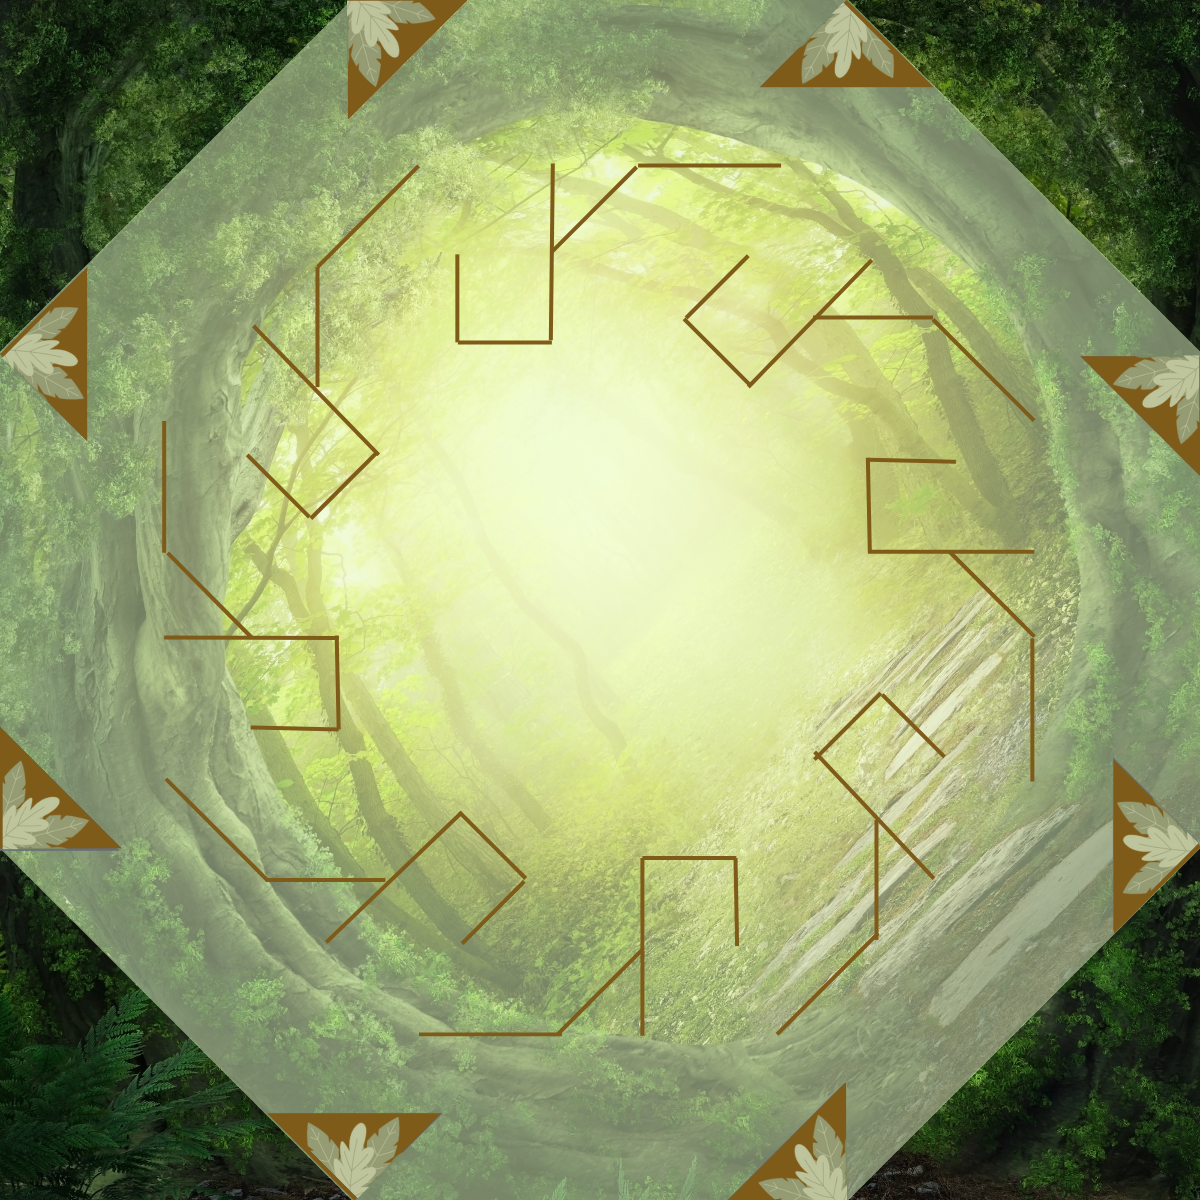
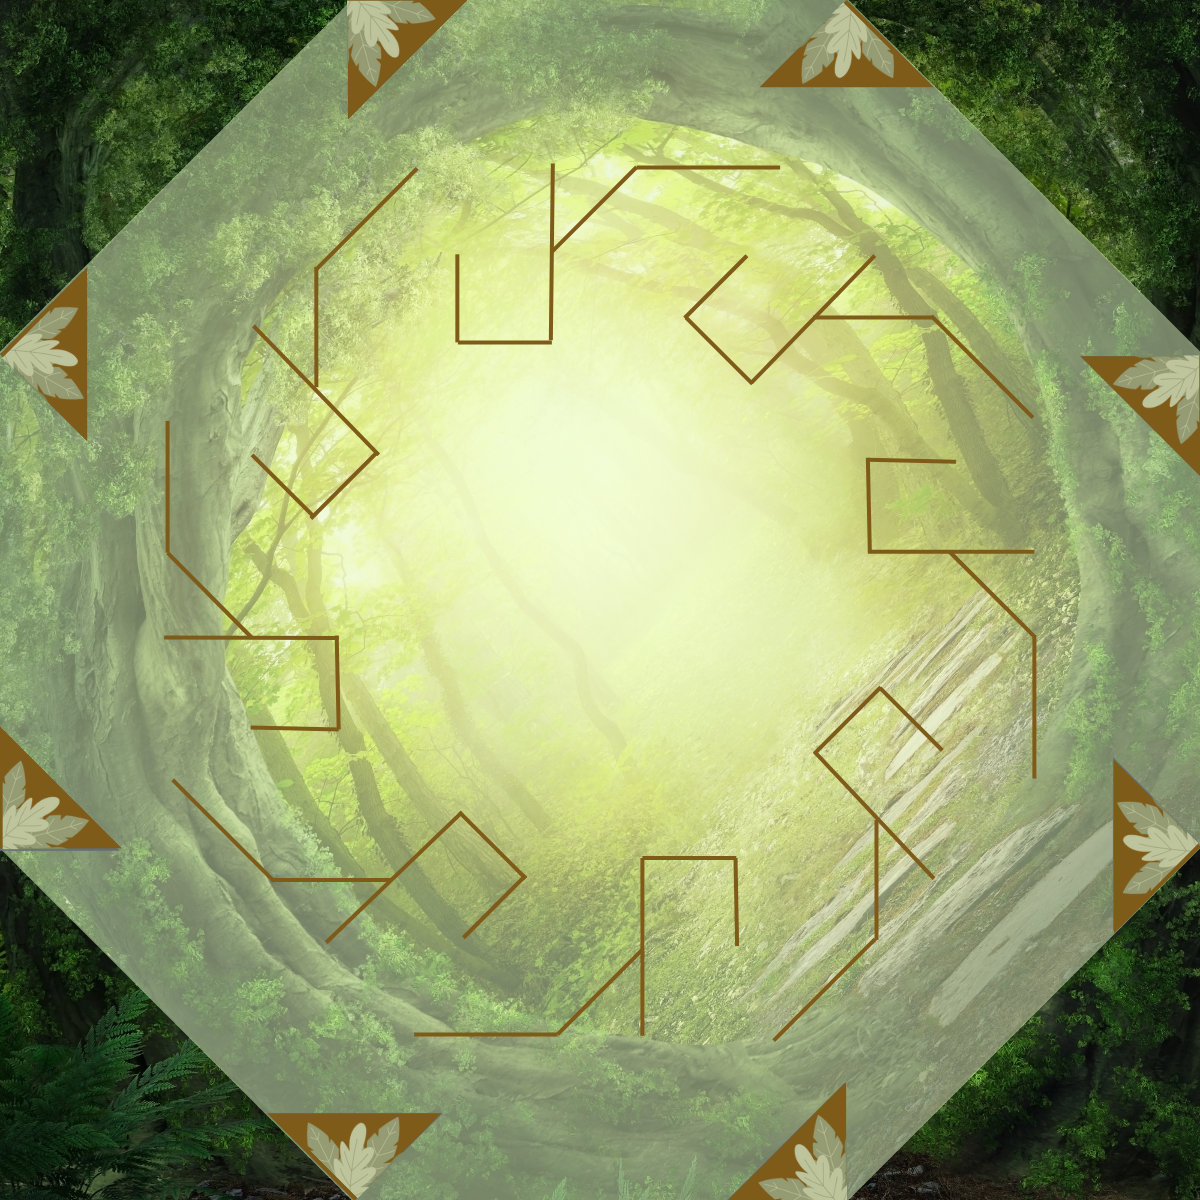
Finish  dev of 5th map
完成第五张地图开发

diff --git a/gui-app/src/main/kotlin/dev/robocode/tankroyale/gui/ui/LiveScoreFrame.kt b/gui-app/src/main/kotlin/dev/robocode/tankroyale/gui/ui/LiveScoreFrame.kt
@@ -22,11 +22,11 @@ class LiveScoreFrame : RcFrame("Live Score Board", isTitlePropertyName = false) 
     private val tableModel: DefaultTableModel
     private val table: JTable
     private val participants = mutableMapOf<Int, Participant>()
-    
+
     // 用于限制刷新频率
     private var lastUpdateTime: Long = 0
     private val minUpdateInterval: Long = 100 // 最小更新间隔为100毫秒
-    
+
     // 缓存最新的tickScores数据
     private var pendingTickScores: JsonArray? = null
     private val updateTimer = javax.swing.Timer(100) { // 每100ms检查一次是否需要更新
@@ -69,10 +69,10 @@ class LiveScoreFrame : RcFrame("Live Score Board", isTitlePropertyName = false) 
         contentPane.add(scrollPane)
         pack()
         setLocationRelativeTo(null)
-        
+
         // 启动定时器
         updateTimer.start()
-        
+
         // 添加实时排行榜窗口关闭监听器
         addWindowListener(object : WindowAdapter() {
             override fun windowClosing(e: WindowEvent?) {
@@ -81,7 +81,7 @@ class LiveScoreFrame : RcFrame("Live Score Board", isTitlePropertyName = false) 
             }
         })
         subscribeToEvents()
-        
+
         // 如果窗口在比赛已经开始后打开，则需要获取当前的参与者信息
         updateParticipantsFromCurrentGame()
     }
@@ -97,7 +97,7 @@ class LiveScoreFrame : RcFrame("Live Score Board", isTitlePropertyName = false) 
             // 清除待处理的数据
             pendingTickScores = null
         }
-        
+
         // 监听比赛结束事件，确保最终得分被立即显示
         ClientEvents.onGameEnded.subscribe(this) { event ->
             // 立即处理任何待处理的tickScores数据
@@ -107,7 +107,7 @@ class LiveScoreFrame : RcFrame("Live Score Board", isTitlePropertyName = false) 
             }
         }
     }
-    
+
     fun updateParticipants(participantsList: List<Participant>) {
         participants.clear()
         participantsList.forEach { participant ->
@@ -118,7 +118,7 @@ class LiveScoreFrame : RcFrame("Live Score Board", isTitlePropertyName = false) 
             updateTableWithScoresImmediately(scores)
         }
     }
-    
+
     // 当窗口在比赛已经开始后打开时，需要获取当前比赛的参与者信息
     private fun updateParticipantsFromCurrentGame() {
         val currentParticipants = UIManager.getCurrentParticipants()
@@ -156,7 +156,7 @@ class LiveScoreFrame : RcFrame("Live Score Board", isTitlePropertyName = false) 
 
         // 使用事务方式更新表格以减少闪烁
         tableModel.dataVector.removeAllElements()
-        
+
         // Add new data
         for (element in tickScores) {
             val score = element.jsonObject
@@ -186,10 +186,10 @@ class LiveScoreFrame : RcFrame("Live Score Board", isTitlePropertyName = false) 
     private fun updateTableWithScoresImmediately(tickScores: JsonArray) {
         // 绕过频率限制，立即更新
         lastUpdateTime = 0 // 重置时间检查，确保更新会执行
-        
+
         // 使用事务方式更新表格以减少闪烁
         tableModel.dataVector.removeAllElements()
-        
+
         // Add new data
         for (element in tickScores) {
             val score = element.jsonObject
@@ -224,7 +224,7 @@ class LiveScoreFrame : RcFrame("Live Score Board", isTitlePropertyName = false) 
         tableModel.rowCount = 0
         tableModel.fireTableDataChanged()
     }
-    
+
     // 添加dispose方法确保资源正确释放
     override fun dispose() {
         updateTimer.stop()

diff --git a/server/src/main/kotlin/dev/robocode/tankroyale/server/core/ModelUpdater.kt b/server/src/main/kotlin/dev/robocode/tankroyale/server/core/ModelUpdater.kt
@@ -92,7 +92,7 @@ class ModelUpdater(
 
     internal fun isAlive(botId: BotId) = botsMap[botId]?.isAlive ?: false
 
-    private val walls: List<Wall> = WallConfig.MAP4_WALLS
+    private val walls: List<Wall> = WallConfig.MAP5_WALLS
     /**
      * Updates game state.
      * @param botIntents is the bot intents, which gives instructions to the game from the individual bots.
@@ -363,14 +363,31 @@ class ModelUpdater(
             walls === WallConfig.MAP4_WALLS -> {
                 // MAP4墙体配置的出生点
                 listOf(
-                    Point(600.0, 1140.0),
-                    Point(600.0, 60.0),
-                    Point(200.0, 1000.0),
-                    Point(1000.0, 1000.0),
-                    Point(60.0, 600.0),
-                    Point(1140.0, 600.0),
-                    Point(200.0, 200.0),
-                    Point(1000.0, 200.0)
+                    Point(380.0, 885.0),
+                    Point(645.0, 950.0),
+                    Point(885.0, 815.0),
+                    Point(955.0, 550.0),
+                    Point(805.0, 320.0),
+                    Point(550.0, 255.0),
+                    Point(315.0, 400.0),
+                    Point(245.0, 660.0)
+                )
+            }
+            walls === WallConfig.MAP5_WALLS -> {
+                // MAP5墙体配置的出生点
+                listOf(
+                    Point(320.0, 1140.0),
+                    Point(880.0, 1140.0),
+                    Point(50.0, 900.0),
+                    Point(1150.0, 900.0),
+                    Point(360.0, 360.0),
+                    Point(840.0, 360.0),
+                    Point(360.0, 840.0),
+                    Point(840.0, 840.0),
+                    Point(50.0, 300.0),
+                    Point(1150.0, 300.0),
+                    Point(320.0, 60.0),
+                    Point(880.0, 60.0)
                 )
             }
             else -> {

diff --git a/gui-app/src/main/kotlin/dev/robocode/tankroyale/gui/ui/config/WallConfig.kt b/gui-app/src/main/kotlin/dev/robocode/tankroyale/gui/ui/config/WallConfig.kt
@@ -162,4 +162,22 @@ object WallConfig {
         WallState(id=59, x=316.0, y=871.5, width=117.0, height=2.0, rotation=270.0, color="#1BF690"),
         WallState(id=60, x=366.5, y=982.5, width=146.0, height=2.0, rotation=46.0, color="#1BF690"),
     )
+
+    val MAP5_WALLS = listOf(
+        WallState (id = 1, x = 600.0, y = 600.0, width = 132.0, height = 132.0, rotation = 0.0, color="#782C22"),
+        WallState (id = 2, x = 600.0, y = 937.0, width = 286.0, height = 2.0, rotation = 90.0, color="#782C22"),
+        WallState (id = 3, x = 937.0, y = 600.0, width = 286.0, height = 2.0, rotation = 0.0, color="#782C22"),
+        WallState (id = 4, x = 263.0, y = 600.0, width = 286.0, height = 2.0, rotation = 0.0, color="#782C22"),
+        WallState (id = 5, x = 600.0, y = 263.0, width = 286.0, height = 2.0, rotation = 90.0, color="#782C22"),
+
+        WallState (id = 6, x = 1040.0, y = 923.0, width = 331.0, height = 2.0, rotation = 15.0, color="#782C22"),
+        WallState (id = 7, x = 923.0, y = 1040.0, width = 331.0, height = 2.0, rotation = 75.0, color="#782C22"),
+        WallState (id = 8, x = 277.0, y = 1040.0, width = 331.0, height = 2.0, rotation = 105.0, color="#782C22"),
+        WallState (id = 9, x = 160.0, y = 923.0, width = 331.0, height = 2.0, rotation = 165.0, color="#782C22"),
+
+        WallState (id = 10, x = 923.0, y = 160.0, width = 331.0, height = 2.0, rotation = 105.0, color="#782C22"),
+        WallState (id = 11, x = 277.0, y = 160.0, width = 331.0, height = 2.0, rotation = 75.0, color="#782C22"),
+        WallState (id = 12, x = 160.0, y = 277.0, width = 331.0, height = 2.0, rotation = 15.0, color="#782C22"),
+        WallState (id = 13, x = 1040.0, y = 277.0, width = 331.0, height = 2.0, rotation = 165.0, color="#782C22"),
+    )
 }

diff --git a/server/src/main/kotlin/dev/robocode/tankroyale/server/util/WallConfig.kt b/server/src/main/kotlin/dev/robocode/tankroyale/server/util/WallConfig.kt
@@ -161,4 +161,22 @@ object WallConfig {
         Wall(id=59, x=316.0, y=871.5, width=117.0, height=2.0, rotation=270.0 ),
         Wall(id=60, x=366.5, y=982.5, width=146.0, height=2.0, rotation=46.0 ),
     )
+
+    val MAP5_WALLS = listOf(
+        Wall (id = 1, x = 600.0, y = 600.0, width = 132.0, height = 132.0, rotation = 0.0),
+        Wall (id = 2, x = 600.0, y = 937.0, width = 286.0, height = 2.0, rotation = 90.0),
+        Wall (id = 3, x = 937.0, y = 600.0, width = 286.0, height = 2.0, rotation = 0.0),
+        Wall (id = 4, x = 263.0, y = 600.0, width = 286.0, height = 2.0, rotation = 0.0),
+        Wall (id = 5, x = 600.0, y = 263.0, width = 286.0, height = 2.0, rotation = 90.0),
+
+        Wall (id = 6, x = 1040.0, y = 923.0, width = 331.0, height = 2.0, rotation = 15.0),
+        Wall (id = 7, x = 923.0, y = 1040.0, width = 331.0, height = 2.0, rotation = 75.0),
+        Wall (id = 8, x = 277.0, y = 1040.0, width = 331.0, height = 2.0, rotation = 105.0),
+        Wall (id = 9, x = 160.0, y = 923.0, width = 331.0, height = 2.0, rotation = 165.0),
+
+        Wall (id = 10, x = 923.0, y = 160.0, width = 331.0, height = 2.0, rotation = 105.0),
+        Wall (id = 11, x = 277.0, y = 160.0, width = 331.0, height = 2.0, rotation = 75.0),
+        Wall (id = 12, x = 160.0, y = 277.0, width = 331.0, height = 2.0, rotation = 15.0),
+        Wall (id = 13, x = 1040.0, y = 277.0, width = 331.0, height = 2.0, rotation = 165.0),
+        )
 }

diff --git a/gui-app/src/main/kotlin/dev/robocode/tankroyale/gui/ui/arena/ArenaPanel.kt b/gui-app/src/main/kotlin/dev/robocode/tankroyale/gui/ui/arena/ArenaPanel.kt
@@ -48,7 +48,7 @@ object ArenaPanel : JPanel() {
 
     private var scale = 1.0
 
-    private var walls: List<WallState> = WallConfig.MAP2_WALLS
+    private var walls: List<WallState> = WallConfig.MAP5_WALLS
 
     init {
         addMouseWheelListener { e -> if (e != null) onMouseWheel(e) }
@@ -421,7 +421,7 @@ object ArenaPanel : JPanel() {
 
     private fun drawText(g: Graphics2D, text: String, x: Double, y: Double) {
         val width = g.fontMetrics.stringWidth(text)
-
+        g.font = Font("SansSerif", Font.BOLD, 20) // 设置字体、样式和大小
         g.drawString(text, x.toFloat() - width / 2, y.toFloat())
     }
 

diff --git a/server/src/main/kotlin/dev/robocode/tankroyale/server/rules/rules.kt b/server/src/main/kotlin/dev/robocode/tankroyale/server/rules/rules.kt
@@ -68,7 +68,7 @@ const val ACCELERATION = 1.0
 const val DECELERATION = -2.0
 
 /** Ram damage */
-const val RAM_DAMAGE = 3.0  // 0.6
+const val RAM_DAMAGE = 4.0  // 0.6
 
 /** Energy gain factor, when bullet hits */
 const val BULLET_HIT_ENERGY_GAIN_FACTOR = 3
@@ -86,7 +86,7 @@ const val SCORE_PER_BULLET_DAMAGE = 2.0    // 1.0
 const val BONUS_PER_BULLET_KILL = 0.6
 
 /** Score per ram damage */
-const val SCORE_PER_RAM_DAMAGE = 4.0
+const val SCORE_PER_RAM_DAMAGE = 1.0
 
 /** Bonus per ram kill */
 const val BONUS_PER_RAM_KILL = 0.6

diff --git a/gui-app/src/main/kotlin/dev/robocode/tankroyale/gui/ui/components/RcImages.kt b/gui-app/src/main/kotlin/dev/robocode/tankroyale/gui/ui/components/RcImages.kt
@@ -8,7 +8,7 @@ object RcImages {
 
     val tankImage: Image = readImage("/gfx/Tank.png")
     val logoImage: Image = readImage("/gfx/Robocode-logo.png")
-    val arenaBackgroundImage: Image = readImage("/gfx/Map4.png")
+    val arenaBackgroundImage: Image = readImage("/gfx/Map5.png")
     private fun readImage(filePath: String): Image {
         val inputStream = javaClass.getResourceAsStream(filePath)
         return ImageIcon(ImageIO.read(inputStream)).image
